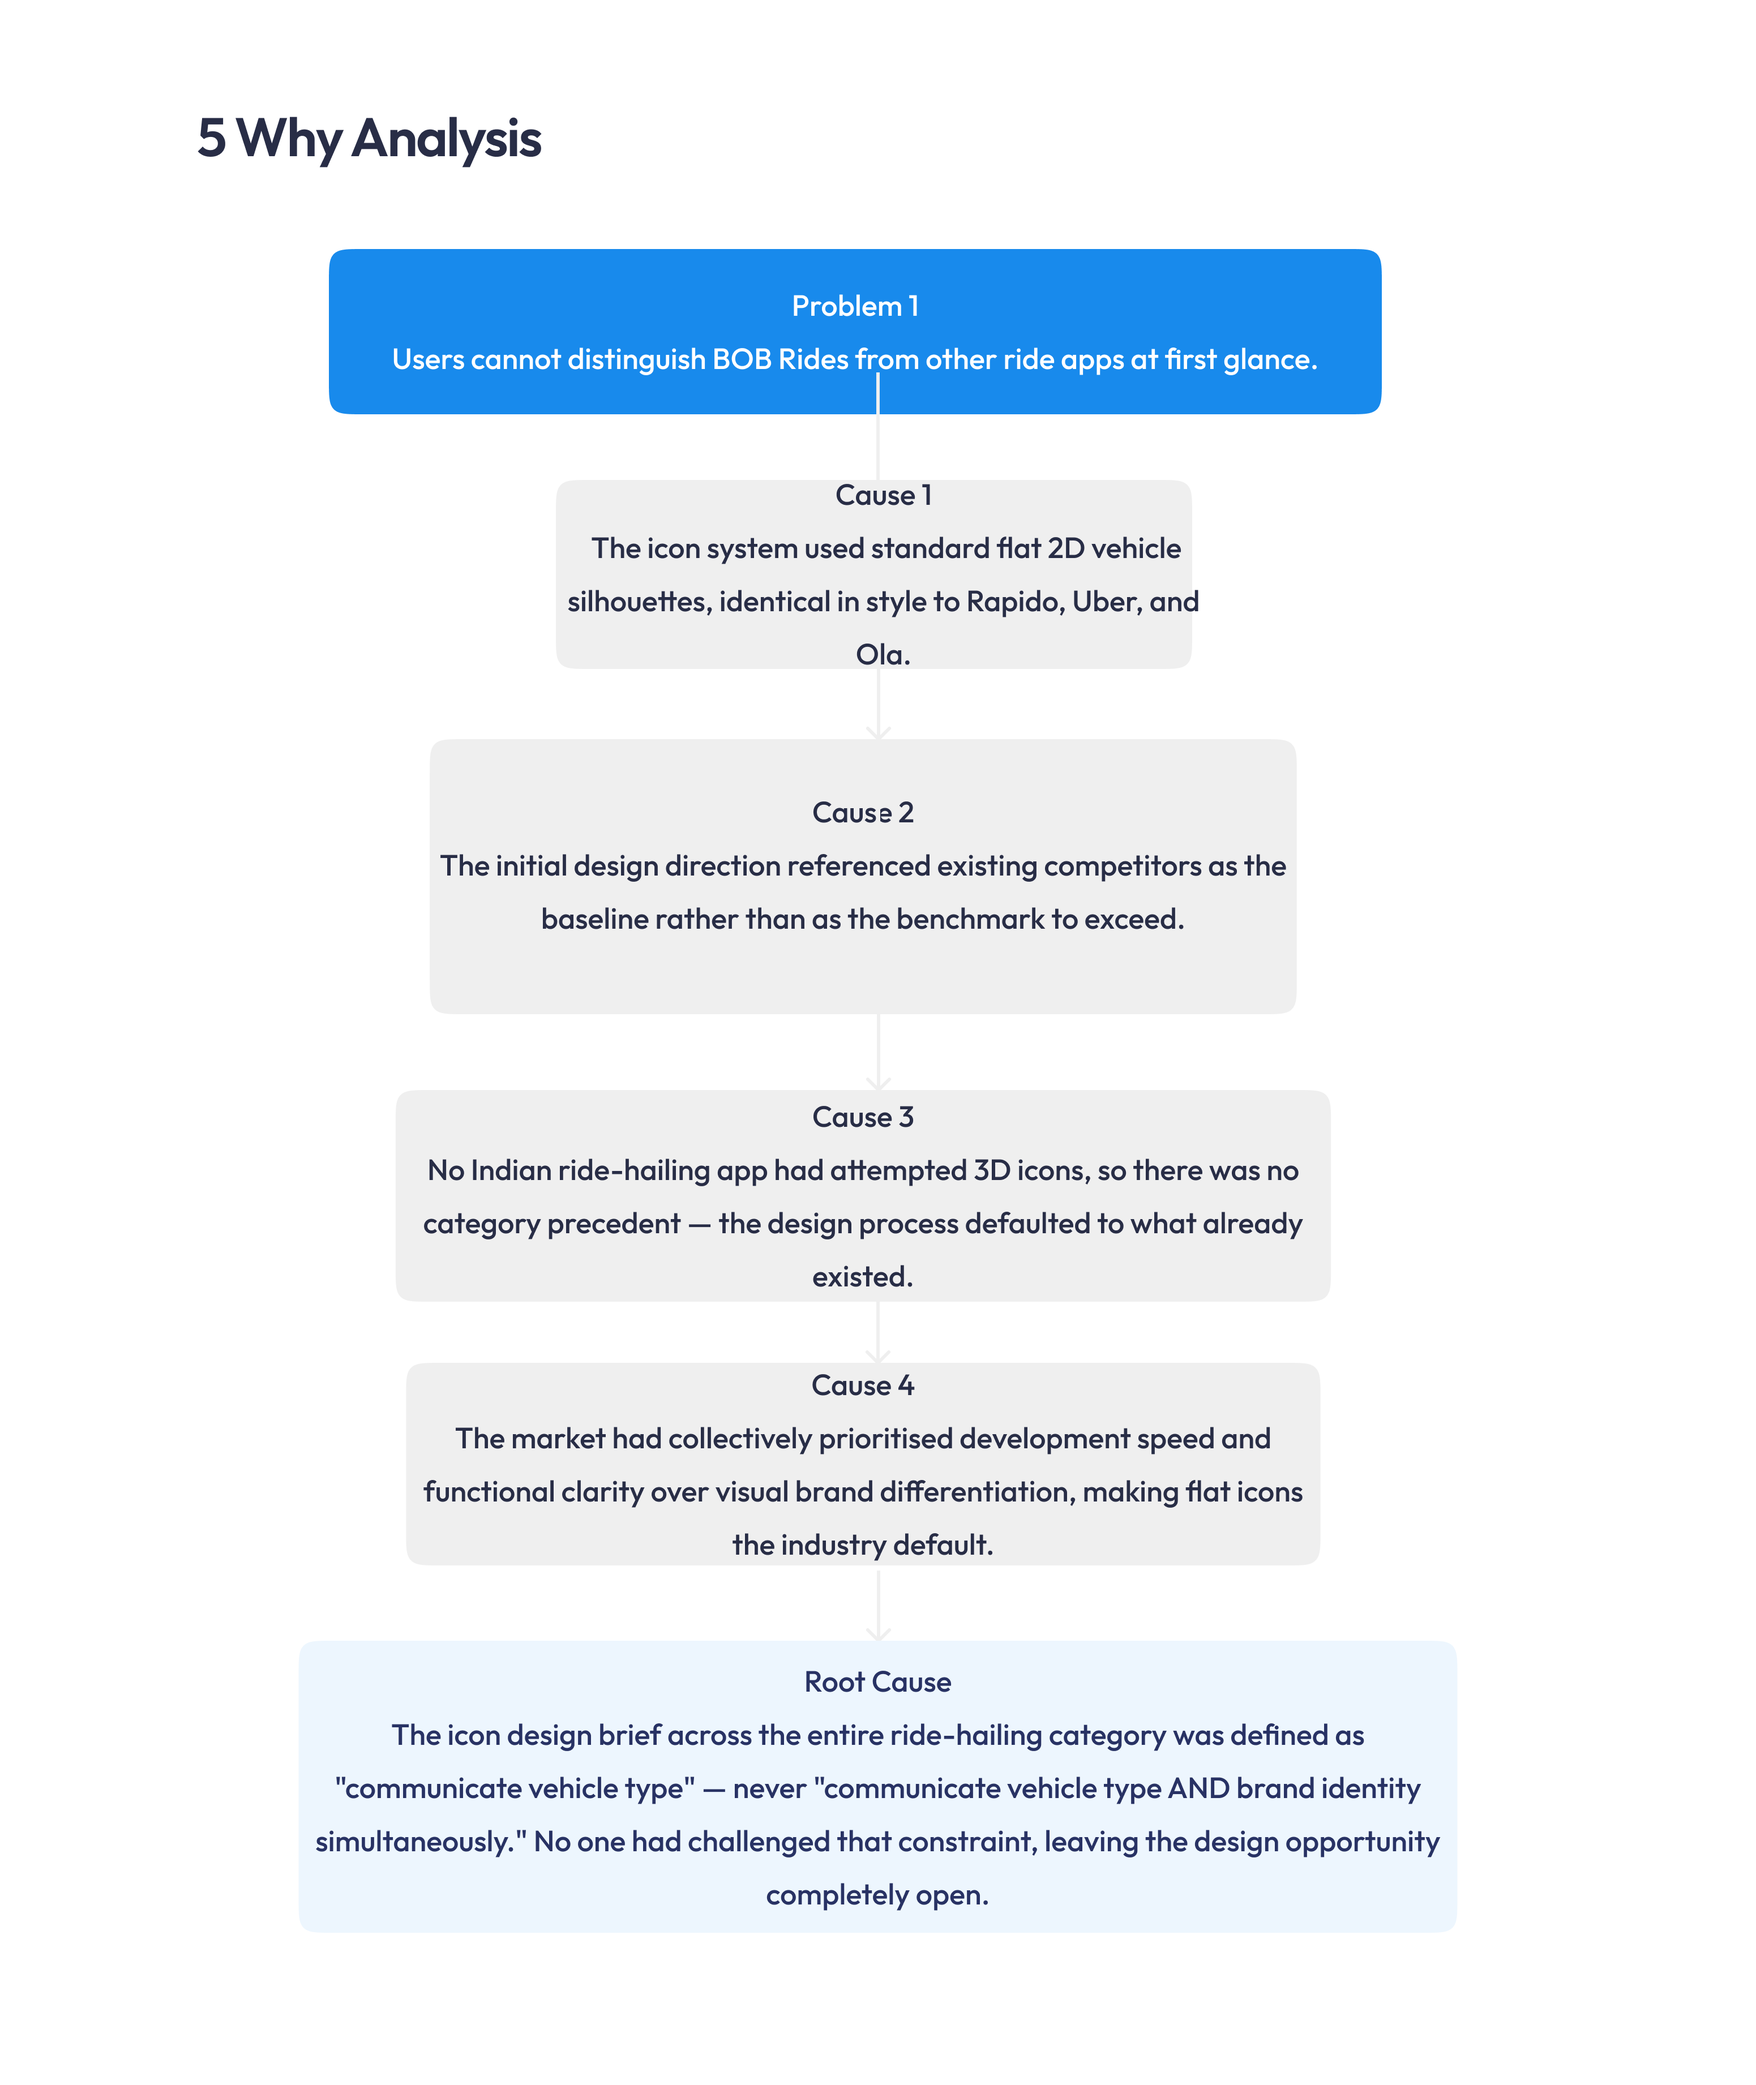
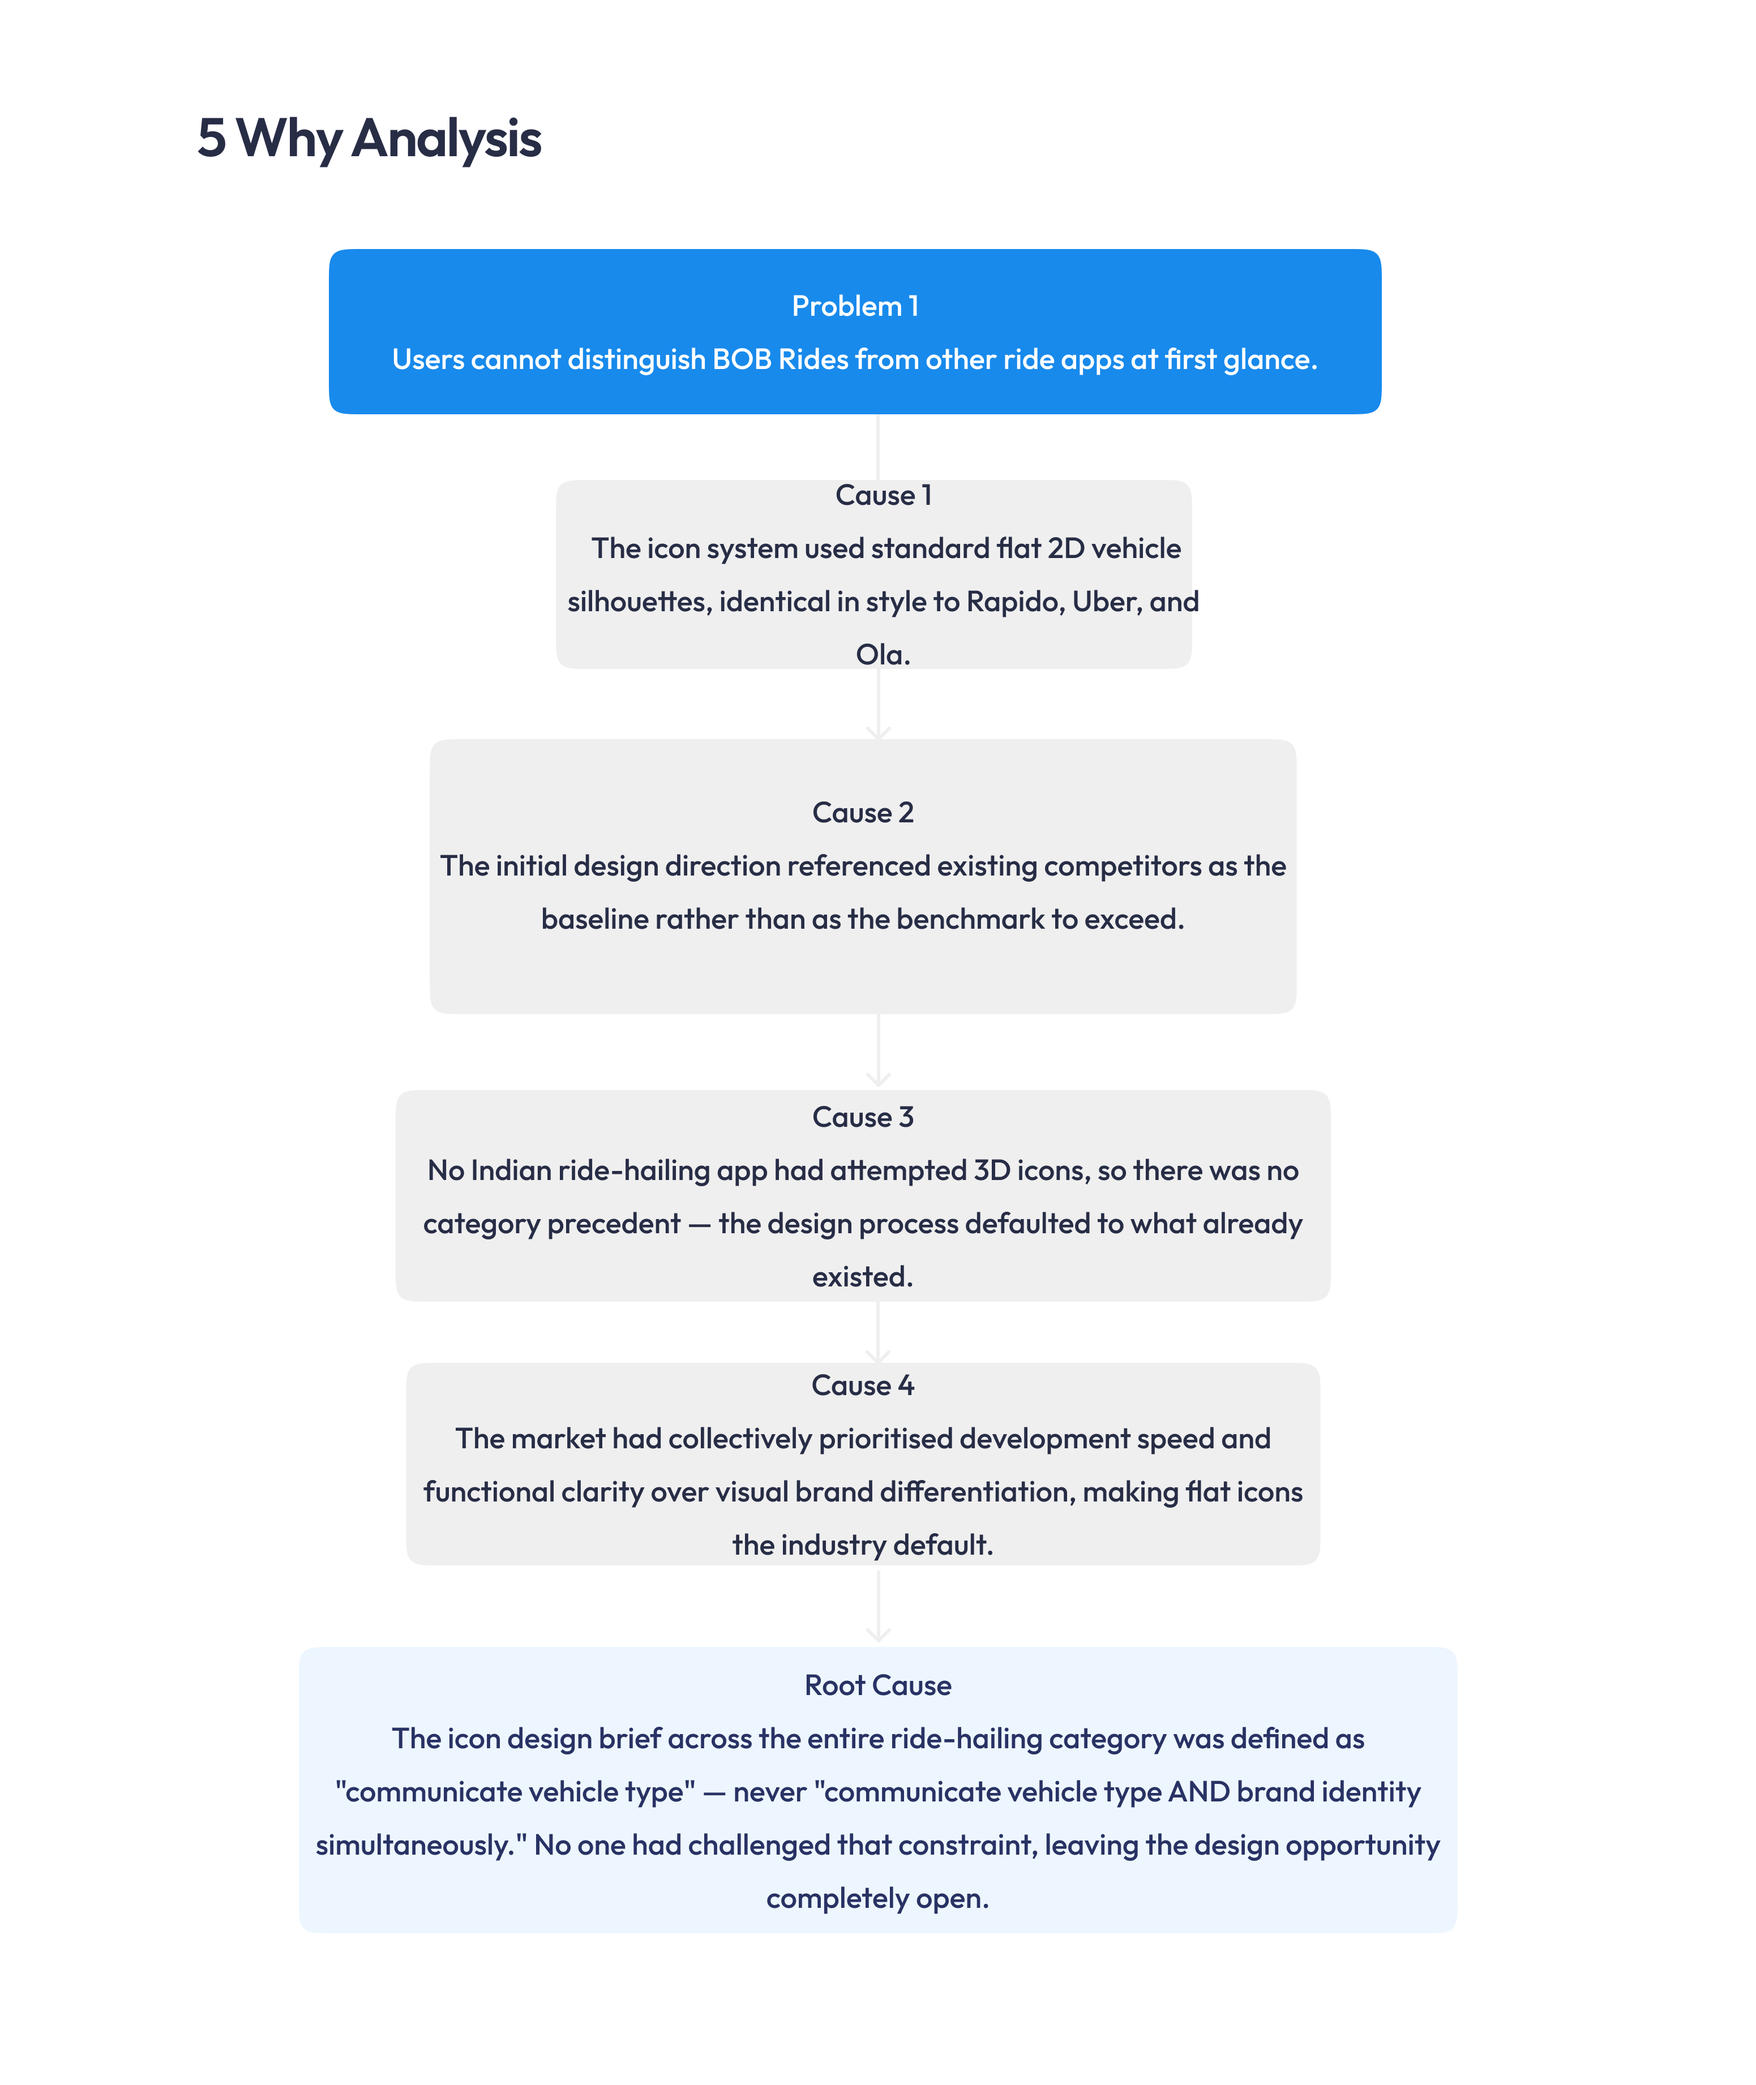
fix: unique features, user persona, task mapping all coded directly - no image files needed

Changed region(s): [[0.1857, 0.7804, 0.8046, 0.9365]]

diff --git a/src/app/components/bob-case-study/BobRides.tsx b/src/app/components/bob-case-study/BobRides.tsx
@@ -182,7 +182,51 @@ export default function BobRides() {
       <section style={{ maxWidth: 1200, margin: '0 auto', padding: '0 32px 80px' }}>
         <FadeUp><SectionLabel>Research</SectionLabel></FadeUp>
         <FadeUp stagger={1}><SectionHeading>User Persona</SectionHeading></FadeUp>
-        <div style={{ marginTop: 48 }}><SectionImage src="/images/bob/user-persona.png" alt="User Persona" /></div>
+        <FadeUp stagger={2}>
+          <div style={{ marginTop: 48, display: 'grid', gridTemplateColumns: '280px 1fr', gap: 64, backgroundColor: cardBg, borderRadius: radius, padding: '48px' }}>
+            {/* Left col */}
+            <div style={{ display: 'flex', flexDirection: 'column', alignItems: 'center', gap: 16 }}>
+              <img src="https://www.figma.com/api/mcp/asset/20287be6-d9f9-4a91-88db-69bbff43d4f8" alt="Rahul Kumar" style={{ width: 148, height: 148, borderRadius: '50%', objectFit: 'cover' }} />
+              <div style={{ textAlign: 'center' }}>
+                <p style={{ fontSize: 20, fontWeight: 700, color: nearBlack, fontFamily: font, margin: 0 }}>Rahul Kumar</p>
+                <p style={{ fontSize: 16, color: '#188AEC', fontFamily: font, margin: '4px 0 0' }}>Community Manager</p>
+              </div>
+              <div style={{ width: '100%', marginTop: 8 }}>
+                <p style={{ fontSize: 16, fontWeight: 700, color: nearBlack, fontFamily: font, margin: '0 0 12px' }}>About</p>
+                <div style={{ display: 'grid', gridTemplateColumns: '1fr 1fr', gap: 8, fontSize: 15, color: grey, fontFamily: font }}>
+                  <span>35</span><span>Bangalore</span>
+                  <span>MBA</span><span>Employee</span>
+                </div>
+              </div>
+            </div>
+            {/* Right col */}
+            <div style={{ display: 'flex', flexDirection: 'column', gap: 28 }}>
+              <div>
+                <p style={{ fontSize: 20, fontWeight: 700, color: nearBlack, fontFamily: font, margin: '0 0 8px' }}>Description</p>
+                <p style={{ fontSize: 17, color: grey, fontFamily: font, lineHeight: 1.7, margin: 0 }}>Arjun commutes daily across Bengaluru using a mix of bike taxis and autos depending on traffic and time of day. He has Rapido, Uber, and Ola installed and manually checks prices before every booking.</p>
+              </div>
+              <div>
+                <p style={{ fontSize: 20, fontWeight: 700, color: nearBlack, fontFamily: font, margin: '0 0 8px' }}>A day in their life</p>
+                <ul style={{ paddingLeft: 20, margin: 0, display: 'flex', flexDirection: 'column', gap: 6 }}>
+                  {['Opens 2–3 different ride apps every morning to compare prices before booking', 'Regularly switches between bike and auto depending on availability and surge pricing', 'Uses dark mode across all his apps by default'].map(t => (
+                    <li key={t} style={{ fontSize: 17, color: grey, fontFamily: font, lineHeight: 1.6 }}>{t}</li>
+                  ))}
+                </ul>
+              </div>
+              <div>
+                <p style={{ fontSize: 20, fontWeight: 700, color: nearBlack, fontFamily: font, margin: '0 0 8px' }}>Pain points</p>
+                <ul style={{ paddingLeft: 20, margin: 0, display: 'flex', flexDirection: 'column', gap: 6 }}>
+                  {['Wastes 3–5 minutes every commute switching between apps to find the best fare', "Can't tell which vehicle icon belongs to which service tier without reading the label", "Existing apps feel visually identical — no sense of which one he's actually on"].map(t => (
+                    <li key={t} style={{ fontSize: 17, color: grey, fontFamily: font, lineHeight: 1.6 }}>{t}</li>
+                  ))}
+                </ul>
+              </div>
+              <div style={{ backgroundColor: '#F6FAFE', borderRadius: 12, padding: '20px 24px' }}>
+                <p style={{ fontSize: 17, color: '#143D61', fontFamily: font, lineHeight: 1.7, margin: 0, fontStyle: 'italic' }}>"I just want to see all my options in one place and book the cheapest one. Why do I have to open three apps for that?"</p>
+              </div>
+            </div>
+          </div>
+        </FadeUp>
       </section>
 
       {/* User Needs */}
@@ -198,7 +242,26 @@ export default function BobRides() {
       <section style={{ maxWidth: 1200, margin: '0 auto', padding: '80px 32px' }}>
         <FadeUp><SectionLabel>Design</SectionLabel></FadeUp>
         <FadeUp stagger={1}><SectionHeading>Features & Functionalities</SectionHeading></FadeUp>
-        <div style={{ marginTop: 48 }}><SectionImage src="/images/bob/features-functionalities.png" alt="Features and Functionalities" /></div>
+        <FadeUp stagger={2}>
+          <p style={{ fontSize: 20, color: grey, fontFamily: font, textAlign: 'center', marginTop: 8, marginBottom: 48 }}>To resolve user needs</p>
+        </FadeUp>
+        <div style={{ display: 'grid', gridTemplateColumns: 'repeat(3, 1fr)', gap: 40, marginTop: 0 }}>
+          {[
+            { icon: 'https://www.figma.com/api/mcp/asset/35275b22-0618-4a92-89f9-ca5dc1bb4776', bg: 'https://www.figma.com/api/mcp/asset/2d92ec1a-4cdf-4145-8555-28b7b46674ca', text: 'Multi-app aggregation — compare Rapido, Uber, and Ola rides in one screen' },
+            { icon: 'https://www.figma.com/api/mcp/asset/a7686ee2-675e-465b-b8f9-0c7504a9c597', bg: 'https://www.figma.com/api/mcp/asset/a92f5f29-0581-485a-99eb-caf579c81a26', text: '3D vehicle icon system — custom bike, auto, and cab icons across all booking states' },
+            { icon: 'https://www.figma.com/api/mcp/asset/03d16072-95f5-47af-9d20-4a076a12d59b', bg: 'https://www.figma.com/api/mcp/asset/9c92d5ff-02e9-4013-9297-0d2ba1ba5312', text: 'Best price indicator — real-time fare comparison with savings highlighted against competitor pricing' },
+          ].map((f, i) => (
+            <FadeUp key={i} stagger={3 + i}>
+              <div style={{ display: 'flex', flexDirection: 'column', alignItems: 'center', gap: 24, textAlign: 'center' }}>
+                <div style={{ position: 'relative', width: 130, height: 130 }}>
+                  <img src={f.bg} alt="" style={{ position: 'absolute', inset: 0, width: '100%', height: '100%' }} />
+                  <img src={f.icon} alt="" style={{ position: 'absolute', width: 48, height: 48, top: '50%', left: '50%', transform: 'translate(-50%, -50%)' }} />
+                </div>
+                <p style={{ fontSize: 18, color: nearBlack, fontFamily: font, lineHeight: 1.7, margin: 0, fontWeight: 400 }}>{f.text}</p>
+              </div>
+            </FadeUp>
+          ))}
+        </div>
       </section>
 
       {/* Product User Challenges */}
@@ -213,7 +276,20 @@ export default function BobRides() {
         <div style={{ maxWidth: 1200, margin: '0 auto' }}>
           <FadeUp><SectionLabel>Design</SectionLabel></FadeUp>
           <FadeUp stagger={1}><SectionHeading>Unique Features</SectionHeading></FadeUp>
-          <div style={{ marginTop: 48 }}><SectionImage src="/images/bob/unique-features.png" alt="Unique Features" /></div>
+          <div style={{ marginTop: 48, display: 'flex', flexDirection: 'column', gap: 32 }}>
+            {[
+              'Custom 3D vehicle icons rendered in Blender — the only ride app icon system in the Indian market built with dimensional 3D models rather than flat vectors',
+              'Dark-mode-native design system built from the ground up, not adapted from a light-mode base',
+              'Cross-app price aggregation with a real-time "Best Price" indicator showing exact savings compared to individual app pricing',
+            ].map((text, i) => (
+              <FadeUp key={i} stagger={2 + i}>
+                <div style={{ display: 'flex', alignItems: 'flex-start', gap: 24 }}>
+                  <span style={{ color: '#188AEC', fontSize: 24, fontWeight: 700, marginTop: 2, flexShrink: 0 }}>→</span>
+                  <p style={{ fontSize: 20, color: nearBlack, fontFamily: font, lineHeight: 1.8, margin: 0, fontWeight: 400 }}>{text}</p>
+                </div>
+              </FadeUp>
+            ))}
+          </div>
         </div>
       </section>
 
@@ -221,7 +297,38 @@ export default function BobRides() {
       <section style={{ maxWidth: 1200, margin: '0 auto', padding: '80px 32px' }}>
         <FadeUp><SectionLabel>Design</SectionLabel></FadeUp>
         <FadeUp stagger={1}><SectionHeading>Task Mapping</SectionHeading></FadeUp>
-        <div style={{ marginTop: 48 }}><SectionImage src="/images/bob/task-mapping.png" alt="Task Mapping" /></div>
+        <FadeUp stagger={2}>
+          <div style={{ marginTop: 48, overflowX: 'auto' }}>
+            <table style={{ width: '100%', borderCollapse: 'collapse', fontFamily: font, fontSize: 15 }}>
+              <thead>
+                <tr style={{ backgroundColor: '#E8E6E1' }}>
+                  <th style={{ padding: '16px 20px', textAlign: 'left', fontWeight: 700, color: nearBlack, width: '12%' }}></th>
+                  {['Step 1 — Open App', 'Step 2 — Find a Ride', 'Step 3 — Select & Book', 'Step 4 — Complete Ride'].map(s => (
+                    <th key={s} style={{ padding: '16px 20px', textAlign: 'left', fontWeight: 700, color: nearBlack }}>{s}</th>
+                  ))}
+                </tr>
+              </thead>
+              <tbody>
+                {[
+                  { label: 'Task', cells: ['User opens BOB Rides and sees home screen with recent destinations and Ride With selector', 'User enters destination, app fetches live prices from Rapido, Uber, and Ola simultaneously', 'User browses Available Rides screen, identifies vehicle type by icon, selects Best Price option', 'User tracks ride in activity screen, journey completes, fare is charged'] },
+                  { label: 'Challenges', cells: ['Remembering which app offers the best price today', 'Too many options displayed simultaneously; icons must communicate vehicle type instantly without reading labels', 'Distinguishing between providers (Rapido, Uber, Ola) and vehicle tiers (bike vs auto vs cab) at a glance', 'Confirming the right ride was booked — provider, vehicle type, and ETA must be immediately clear'] },
+                  { label: 'Environment', cells: ['Mobile, indoors or commuting, often in a hurry', 'Mobile, standing or seated, may be in low light or outdoor glare', 'Mobile, quick decision context, 10–30 seconds to choose', 'Mobile, background task, app open but user not actively interacting'] },
+                  { label: 'Emotions', cells: ['Mild impatience, wants to book fast and move on', 'Cautious scanning for the cheapest fare without missing a better option', 'Decisive but uncertain — does the icon match what they expect to get?', 'Relieved — Booking is done, needs passive confirmation'] },
+                  { label: 'Thoughts', cells: ['"Is this faster than opening three apps separately?"', '"Which one is actually cheapest right now?"', '"Is that icon a bike or an auto? Is Best Price actually the best?"', '"Did it book the right vehicle? When does it arrive?"'] },
+                  { label: 'Urgency Level', cells: ['Medium — user has a destination in mind and is ready to book', 'High — fare comparison is time-sensitive due to surge pricing', 'High — selection decision happens in under 30 seconds', 'Low — passive monitoring state'] },
+                  { label: 'Design Opportunity', cells: ['Home screen icons (bike, auto, cab) must communicate vehicle category at 48px without any label', 'Available Rides screen is the primary icon performance test — all three vehicle types appear simultaneously at 32px', 'Best Price badge and icon must work together to guide the decision without requiring the user to read every row', 'Activity screen must clearly confirm vehicle type icon and provider — same icon system, confirmation context'] },
+                ].map((row, ri) => (
+                  <tr key={row.label} style={{ backgroundColor: ri % 2 === 1 ? warmBg : 'transparent' }}>
+                    <td style={{ padding: '16px 20px', fontWeight: 700, color: nearBlack, borderBottom: '1px solid rgba(0,0,0,0.06)', verticalAlign: 'top' }}>{row.label}</td>
+                    {row.cells.map((cell, ci) => (
+                      <td key={ci} style={{ padding: '16px 20px', color: grey, borderBottom: '1px solid rgba(0,0,0,0.06)', verticalAlign: 'top', lineHeight: 1.6 }}>{cell}</td>
+                    ))}
+                  </tr>
+                ))}
+              </tbody>
+            </table>
+          </div>
+        </FadeUp>
       </section>
 
       {/* Eisenhower Matrix */}
